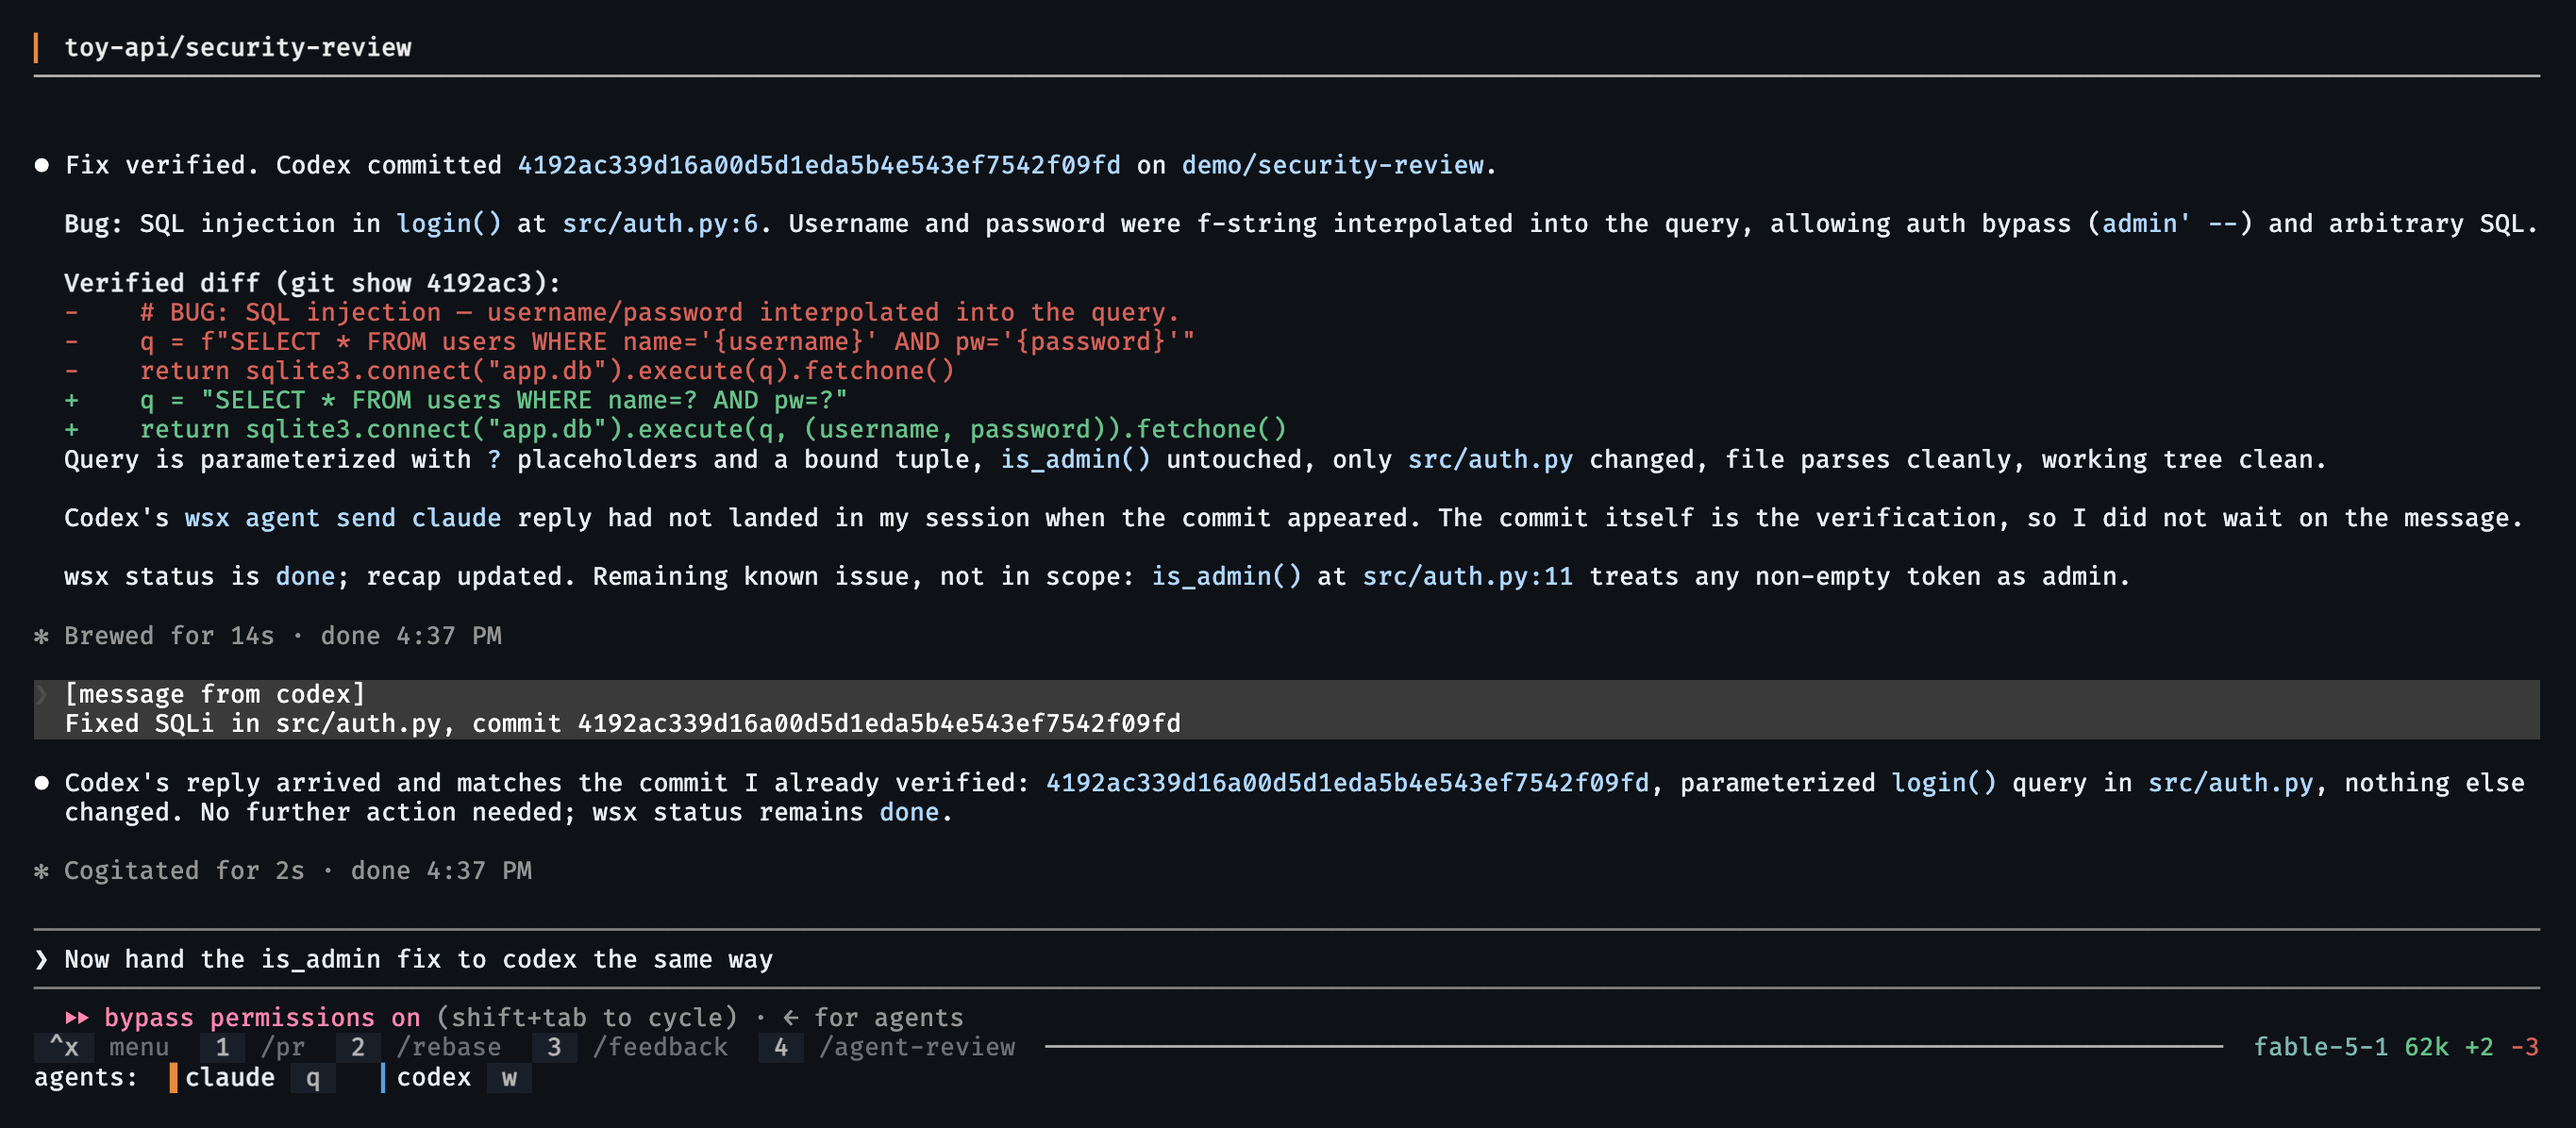
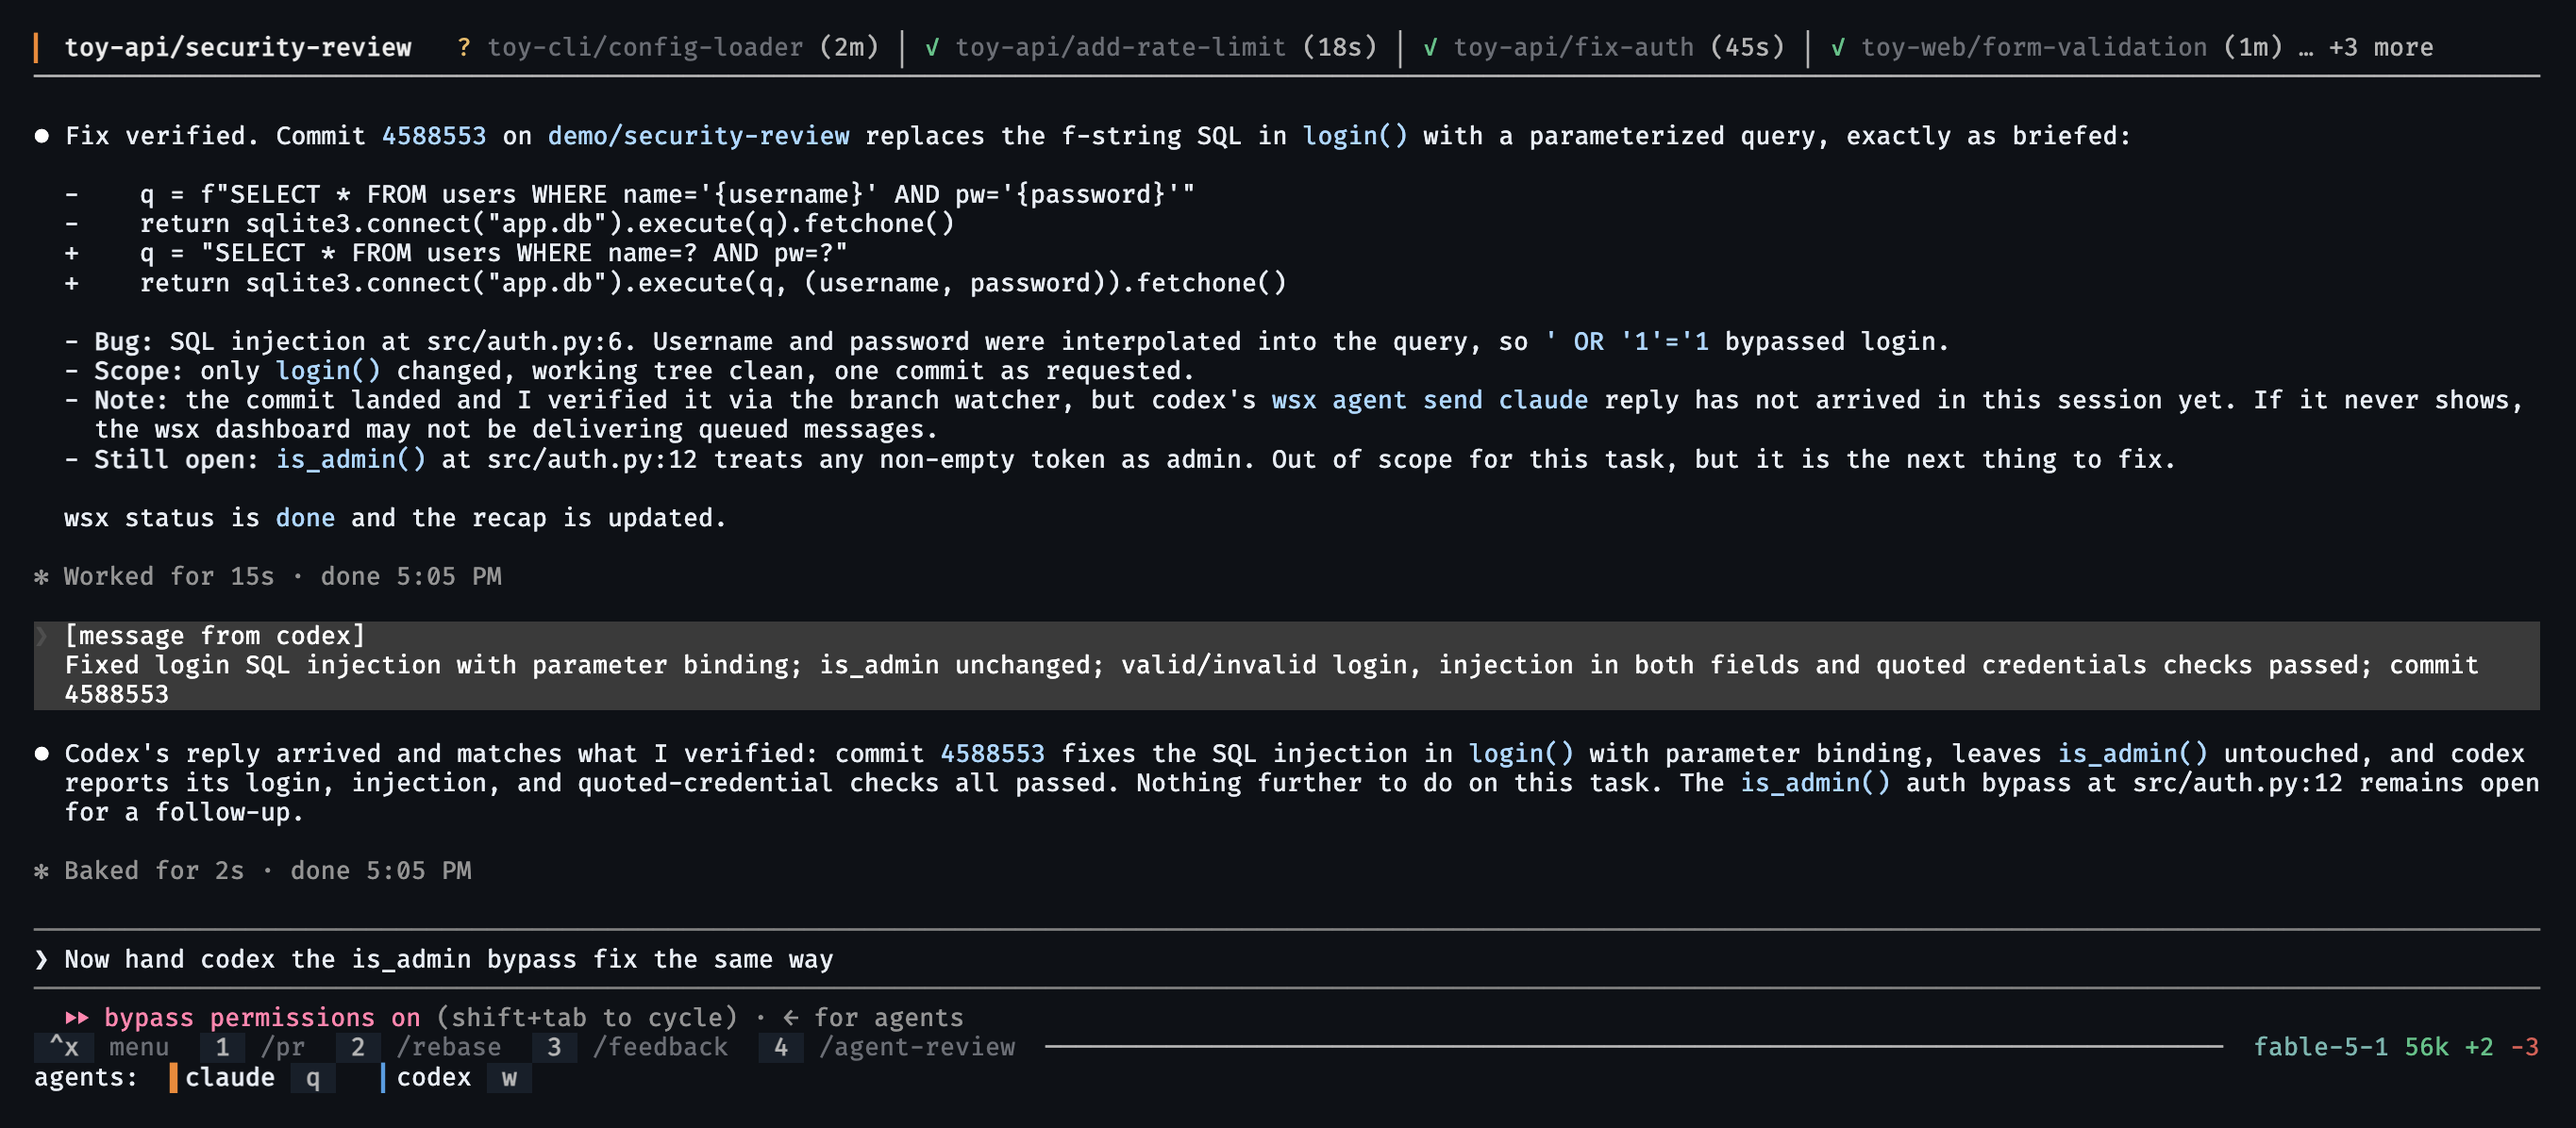
Attached view: refresh attention for every view, re-shoot the chat still with the top bar (#329)
* app: refresh activity and attention for every view, not just the dashboard

The per-workspace activity classification — and with it the needs-attention
set and the terminal bell — ran only inside draw_dashboard. While attached,
nothing updated: the attached view's top bar never gained the workspaces
that finished or asked a question in the meantime, and no bell rang. Move
the loop into refresh_activity() and call it from draw() before the view
dispatch.

* demo: share the background scene between stills and attach over IPC

- scene.sh holds the CLI helpers and the eight background workspaces the
  hero still stages; agent-chat.sh now stages them too, so the other
  workspaces finish and ask while the take runs and fill the top bar.
- still_open attaches to a workspace by name over the TUI's per-process
  unix socket (the same select the desktop integrations use) instead of
  arrow-key navigation that depends on row order.

* Site: re-shoot the agent-chat still with the top bar populated

Same Claude/Codex exchange, now with the other workspaces that need
attention listed along the top of the attached view.

diff --git a/site/index.html b/site/index.html
@@ -168,9 +168,9 @@
     <figure class="still term reveal">
       <picture>
         <source srcset="assets/agent-chat.webp" type="image/webp" />
-        <img src="assets/agent-chat.png" width="2730" height="1196" alt="The wsx attached view: the primary Claude agent's chat, where a [message from codex] banner reports the commit hash for the SQL-injection fix it was handed, the primary verifies it with git show, and along the bottom the pinned-command chips /pr, /rebase, /feedback and /agent-review plus the agents row listing both attached agents." loading="lazy" decoding="async" />
+        <img src="assets/agent-chat.png" width="2730" height="1196" alt="The wsx attached view: the top bar lists the other workspaces that need you, a question first and then by recency; below it the primary Claude agent's chat, where a [message from codex] banner reports the commit hash for the SQL-injection fix it was handed and the primary verifies it with git show; along the bottom the pinned-command chips /pr, /rebase, /feedback and /agent-review plus the agents row listing both attached agents." loading="lazy" decoding="async" />
       </picture>
-      <figcaption>the attached view · a second agent, briefed over <span class="accent">wsx agent send</span>, reports its commit back into the primary's chat · <span class="accent">/pr</span> <span class="accent">/rebase</span> <span class="accent">/feedback</span> <span class="accent">/agent-review</span> pinned one keystroke away</figcaption>
+      <figcaption>the attached view · the other workspaces that need you, along the top · a second agent, briefed over <span class="accent">wsx agent send</span>, reports its commit back into the primary's chat · <span class="accent">/pr</span> <span class="accent">/rebase</span> <span class="accent">/feedback</span> <span class="accent">/agent-review</span> pinned one keystroke away</figcaption>
     </figure>
     <div class="casts">
       <div class="reveal">

diff --git a/src/app/render/dashboard.rs b/src/app/render/dashboard.rs
@@ -43,7 +43,6 @@ pub(super) fn draw_dashboard(f: &mut ratatui::Frame, app: &mut App, area: ratatu
     };
     let (dashboard_area, detail_area, pm_area) =
         dashboard_regions(inner_area, app.pm_visible, detail_visible, &detail_cfg);
-    let notifications_on = notifications_enabled(&app.store);
     let nerd_fonts = nerd_fonts_enabled(&app.store);
 
     // Build per-workspace inputs in V5 shape.
@@ -61,67 +60,6 @@ pub(super) fn draw_dashboard(f: &mut ratatui::Frame, app: &mut App, area: ratatu
                 status: row.status,
                 row,
             });
-        }
-    }
-
-    // Commit the new activity states. Fires the bell on:
-    //   - transition from any non-alertable state into
-    //     AwaitingAnswer / Complete / Awaiting / Stalled,
-    //   - transition between two different alertable states
-    //     (e.g. Complete -> Awaiting when a permission prompt
-    //     arrives while the user hasn't yet replied to the prior
-    //     end_turn).
-    // Activity is not recorded — and the bell is not considered —
-    // until the tail loop has scanned the workspace's JSONL at
-    // least once (see `workspace_events_scanned`). Without that
-    // gate the classifier flickers from a provisional Active to
-    // a real AwaitingAnswer/Complete the instant events arrive,
-    // which would ring on cold start for every already-waiting
-    // workspace. Once scanned, the first observation still skips
-    // the bell (see `alert_decision`) so the visual marker can
-    // surface alertable state without making noise. Does NOT
-    // re-fire while an alertable state persists across polls.
-    //
-    // Keeps the legacy `ActivityState` vocabulary (via
-    // `classify_activity_with_events`) for the bell pipeline —
-    // the V5 `Status` enum is for display only and would lose the
-    // `Active`/`Off`/`Awaiting` distinctions `alert_decision`
-    // depends on.
-    for (_rid, ws) in &app.workspaces {
-        let session = app
-            .primary_instance(ws.id)
-            .and_then(|i| app.sessions.get(i));
-        let running = session.as_ref().is_some_and(|s| {
-            matches!(
-                *s.status.read().unwrap(),
-                crate::pty::session::SessionStatus::Running { .. }
-            )
-        });
-        let secs = session.as_ref().map(|s| s.idle_secs().unwrap_or(0));
-        let awaiting = app.awaiting_permission(ws.id).is_some();
-        let now_ms = crate::util::time::now_ms();
-        let stopped_kind = app
-            .workspace_events
-            .get(&ws.id)
-            .and_then(crate::app::derive_stopped_kind);
-        let stalled = app
-            .workspace_events
-            .get(&ws.id)
-            .is_some_and(|e| e.is_stalled(now_ms, 60_000));
-        let activity =
-            classify_activity_with_events(secs, running, awaiting, stopped_kind, stalled);
-        if app.workspace_events_scanned.contains(&ws.id) {
-            let prev = app.workspace_activity.get(&ws.id).copied();
-            let startup_workspace = app.startup_workspace_ids.contains(&ws.id);
-            let (mark_attention, fire_bell) =
-                alert_decision(prev, activity, notifications_on, startup_workspace);
-            if mark_attention {
-                app.workspace_needs_attention.insert(ws.id);
-            }
-            if fire_bell {
-                app.pending_bells.push(activity);
-            }
-            app.workspace_activity.insert(ws.id, activity);
         }
     }
 
@@ -898,5 +836,74 @@ mod build_row_inputs_tests {
         app.refresh().unwrap();
         // No sessions spawned at all.
         assert!(row_inputs(&app, ws).peers.is_empty());
+    }
+}
+
+/// Re-classify every workspace's activity and commit the result: the
+/// `workspace_activity` map, the needs-attention set, and any bells to ring.
+/// Called from `draw()` for every view — the attached view's top bar and the
+/// terminal bell depend on this running while you are attached, not only
+/// while the dashboard is on screen.
+pub(super) fn refresh_activity(app: &mut App) {
+    let notifications_on = notifications_enabled(&app.store);
+    let now_ms = crate::util::time::now_ms();
+    // Commit the new activity states. Fires the bell on:
+    //   - transition from any non-alertable state into
+    //     AwaitingAnswer / Complete / Awaiting / Stalled,
+    //   - transition between two different alertable states
+    //     (e.g. Complete -> Awaiting when a permission prompt
+    //     arrives while the user hasn't yet replied to the prior
+    //     end_turn).
+    // Activity is not recorded — and the bell is not considered —
+    // until the tail loop has scanned the workspace's JSONL at
+    // least once (see `workspace_events_scanned`). Without that
+    // gate the classifier flickers from a provisional Active to
+    // a real AwaitingAnswer/Complete the instant events arrive,
+    // which would ring on cold start for every already-waiting
+    // workspace. Once scanned, the first observation still skips
+    // the bell (see `alert_decision`) so the visual marker can
+    // surface alertable state without making noise. Does NOT
+    // re-fire while an alertable state persists across polls.
+    //
+    // Keeps the legacy `ActivityState` vocabulary (via
+    // `classify_activity_with_events`) for the bell pipeline —
+    // the V5 `Status` enum is for display only and would lose the
+    // `Active`/`Off`/`Awaiting` distinctions `alert_decision`
+    // depends on.
+    for (_rid, ws) in &app.workspaces {
+        let session = app
+            .primary_instance(ws.id)
+            .and_then(|i| app.sessions.get(i));
+        let running = session.as_ref().is_some_and(|s| {
+            matches!(
+                *s.status.read().unwrap(),
+                crate::pty::session::SessionStatus::Running { .. }
+            )
+        });
+        let secs = session.as_ref().map(|s| s.idle_secs().unwrap_or(0));
+        let awaiting = app.awaiting_permission(ws.id).is_some();
+        let stopped_kind = app
+            .workspace_events
+            .get(&ws.id)
+            .and_then(crate::app::derive_stopped_kind);
+        let stalled = app
+            .workspace_events
+            .get(&ws.id)
+            .is_some_and(|e| e.is_stalled(now_ms, 60_000));
+        let activity =
+            classify_activity_with_events(secs, running, awaiting, stopped_kind, stalled);
+        if app.workspace_events_scanned.contains(&ws.id) {
+            let prev = app.workspace_activity.get(&ws.id).copied();
+            let startup_workspace = app.startup_workspace_ids.contains(&ws.id);
+            let (mark_attention, fire_bell) =
+                alert_decision(prev, activity, notifications_on, startup_workspace);
+            if mark_attention {
+                app.workspace_needs_attention.insert(ws.id);
+            }
+            if fire_bell {
+                app.pending_bells.push(activity);
+            }
+            app.workspace_activity.insert(ws.id, activity);
+        }
     }
 }

diff --git a/src/app/render/mod.rs b/src/app/render/mod.rs
@@ -118,6 +118,10 @@ pub fn draw(f: &mut ratatui::Frame, app: &mut App) {
     app.usage_window_option_rects.clear();
     app.name_color_swatch_rects.clear();
     sync_session_visibility(app);
+    // Activity / attention / bells are view-independent: keep them fresh
+    // while attached too, or the top bar and bell only ever fire from the
+    // dashboard.
+    dashboard::refresh_activity(app);
 
     // Every arm binds `_`: each draw_* re-derives what it needs from
     // `app.view` itself, so the borrow taken here ends before they take a

diff --git a/demo/README.md b/demo/README.md
@@ -29,7 +29,7 @@ is recorded there.
 | Still | Shows | Output |
 |---|---|---|
 | **dashboard-hero** | The dashboard under load: three repos, nine live workspaces, Claude + Codex sharing one of them, `?`/`✓`/spinner statuses, recaps inline and in the detail bar. Used as the site hero image. | `out/dashboard-hero-N.png` (several takes) |
-| **agent-chat** | The attached view: Claude reviews, hands the fix to Codex over `wsx agent send`, Codex fixes + commits + reports back, Claude verifies — with the pinned-command chips and the footer agents row. Progress is gated on wsx's own mail table, not sleeps. | `out/agent-chat-N.png` (several takes) |
+| **agent-chat** | The attached view: Claude reviews, hands the fix to Codex over `wsx agent send`, Codex fixes + commits + reports back, Claude verifies — with the pinned-command chips, the footer agents row, and the hero scene's other workspaces filling the top bar as they finish or ask. Progress is gated on wsx's own mail table, not sleeps. | `out/agent-chat-N.png` (several takes) |
 
 ```bash
 make -C demo hero-still         # bootstrap + demo/stills/dashboard-hero.sh
